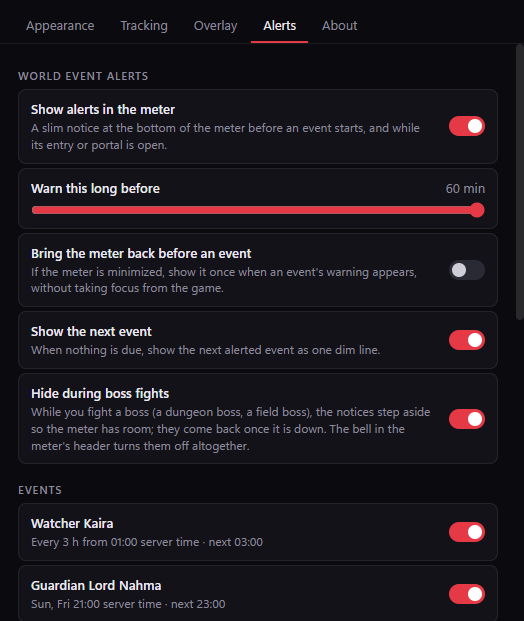
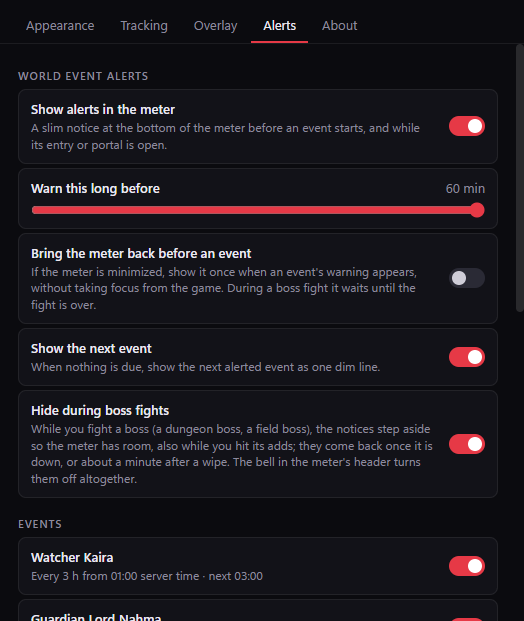
Restore the Windows SDK target, add the README demo GIF
The plain net10.0-windows retarget passed every test but the published
exe crashed on start: BlazorWebView draws the see-through overlay with
WebView2's composition control, which loads Microsoft.Windows.SDK.NET.
Back to net10.0-windows10.0.20348.0 with a comment saying why; the
guard is reversed so losing the projection, or its notice, fails a test.
The notices and SECURITY name the projection and leave the GPL question
to the player. The README's hero is now a looping GIF of the demo fight,
with the Alerts and background screenshots retaken from #24's build.

diff --git a/tests/ScarletMeter.Tests/ThirdPartyNoticesTests.cs b/tests/ScarletMeter.Tests/ThirdPartyNoticesTests.cs
@@ -11,8 +11,8 @@ namespace ScarletMeter.Tests;
 /// THIRD-PARTY-NOTICES.md lists exactly the NuGet packages that ship in the program (from the app's restore), with the
 /// licence each declares and the licence and notice files it ships, whose copies in licenses/packages match the
 /// package byte for byte (run scripts/Write-ThirdPartyNotices.ps1 after a package change); every SPDX licence named
-/// has its official text in licenses/; LICENSE is the plain GPLv3 byte for byte; the program bundles no proprietary
-/// Windows SDK projection; and NOTICE and the notices name what a GPLv3 release must. Paths come from the test assembly's location, never the working directory.
+/// has its official text in licenses/; LICENSE is the plain GPLv3 byte for byte; the program keeps the Windows SDK
+/// projection its overlay needs, and names it; and NOTICE and the notices name what a GPLv3 release must. Paths come from the test assembly's location, never the working directory.
 /// </summary>
 public sealed partial class ThirdPartyNoticesTests
 {
@@ -93,20 +93,26 @@ public sealed partial class ThirdPartyNoticesTests
         Assert.Equal(WpfNoticesSha256, Sha256WithLf(Path.Combine(licences, "dotnet-wpf", "THIRD-PARTY-NOTICES.TXT")));
     }
 
-    // A versioned Windows target framework (net10.0-windows10.0.x) bundles Microsoft's Windows SDK projection, which
-    // the meter does not use and whose proprietary licence is not the GPL's to cover: the app must not bring it in.
+    // BlazorWebView draws the see-through overlay with WebView2's composition control, which loads the Windows SDK
+    // projection (Microsoft.Windows.SDK.NET) at run time: a plain net10.0-windows build left it out and the published
+    // exe crashed on start. The app must keep a Windows 10 SDK target, and THIRD-PARTY-NOTICES.md must name the
+    // projection and its licence.
     [Fact]
-    public void TheProgramBundlesNoWindowsSdkProjection()
+    public void TheProgramKeepsTheWindowsSdkProjectionAndNamesIt()
     {
         using var assets = AppAssets();
-        foreach (var framework in assets.RootElement.GetProperty("project").GetProperty("frameworks").EnumerateObject())
+        var frameworks = assets.RootElement.GetProperty("project").GetProperty("frameworks").EnumerateObject().ToList();
+        Assert.NotEmpty(frameworks);
+        foreach (var framework in frameworks)
         {
-            Assert.DoesNotContain("windows10", framework.Name, StringComparison.OrdinalIgnoreCase);
-            if (framework.Value.TryGetProperty("frameworkReferences", out var references))
-                Assert.DoesNotContain(references.EnumerateObject(), r => r.Name.StartsWith("Microsoft.Windows.SDK.NET", StringComparison.OrdinalIgnoreCase));
-            if (framework.Value.TryGetProperty("downloadDependencies", out var downloads))
-                Assert.DoesNotContain(downloads.EnumerateArray(), d => d.GetProperty("name").GetString()!.StartsWith("Microsoft.Windows.SDK.NET", StringComparison.OrdinalIgnoreCase));
+            Assert.Contains("windows10.0.", framework.Name, StringComparison.OrdinalIgnoreCase);
+            Assert.True(framework.Value.TryGetProperty("frameworkReferences", out var references)
+                && references.EnumerateObject().Any(r => r.Name.StartsWith("Microsoft.Windows.SDK.NET.Ref", StringComparison.OrdinalIgnoreCase)),
+                $"{framework.Name} does not bring in the Windows SDK projection WebView2's composition control needs.");
         }
+        var notices = File.ReadAllText(Path.Combine(RepositoryRoot(), "THIRD-PARTY-NOTICES.md"));
+        Assert.Contains("Microsoft.Windows.SDK.NET", notices, StringComparison.Ordinal);
+        Assert.Contains("https://aka.ms/WinSDKLicenseURL", notices, StringComparison.Ordinal);
     }
 
     [Fact]

diff --git a/docs/WORKLOG.md b/docs/WORKLOG.md
@@ -18,9 +18,13 @@ Newest first. Each entry: what changed, why, actual checks, unresolved issues, n
 
 **Checks after the audit (SDK 10.0.402):** `scripts/Build.ps1` 405/405 (`ThirdPartyNoticesTests` now 4). Fail-first, each failing its test: a word changed mid-`LICENSE`, PacketDotNet's licence cell as MIT, its row dropped, a stale row, a notices cell emptied, a copied licence changed by one byte, the MPL text changed, and a stale file in `licenses/packages`. `Write-ThirdPartyNotices.ps1` rerun after a plain restore reproduces the table and copies exactly (59 packages, 8 files); after a win-x64 restore it gave the same 59. A scratch `Publish-Portable.ps1 -SkipTests` passed the extended `Test-PublishLayout.ps1`, with `licenses/runtime/` holding the NETCore, WindowsDesktop and AspNetCore packs' files and the manifest owning `licenses`. `Write-SourceArchive.ps1` gave a 5.4 MB zip of 514 entries, `upstream/` included, nothing outside its top folder. Not run: the release workflow (it runs on the tag), `Write-ThirdPartyNotices.ps1` under pwsh, and its missing-.nuspec failure.
 
-**Re-audit of those changes (deep, request changes), and what changed:** CI and Codex were clean on ea18c6d, and the artifact hand-off, pins, exit codes, token split, publish target and source zip were confirmed by reading the actions at their pinned commits and by runs in a clone. (1) The app targeted `net10.0-windows10.0.20348.0`, a versioned Windows target, which bundled Microsoft's Windows SDK projection (`Microsoft.Windows.SDK.NET.dll`, 25 MB, and `WinRT.Runtime.dll`) under a licence known only by URL, though nothing in the meter uses WinRT: the app and tests now target plain `net10.0-windows`, the projection is gone from the build, the table's target name follows, and `ThirdPartyNoticesTests.TheProgramBundlesNoWindowsSdkProjection` fails if a versioned target or the SDK pack comes back. The target was RATmeter's UI project's, carried over without asking what it brings. (2) WPF's third-party notices were linked, not shipped (the Windows Desktop runtime pack carries only its licence): `licenses/dotnet-wpf/THIRD-PARTY-NOTICES.TXT` from dotnet/wpf v10.0.13, checked by hash, required by the layout and release checks. (3) `MIT.txt`'s permission text was unguarded: hashed from "Permission is hereby granted" to the end, the same text as .NET's and K4os's copies. (4) The README promised no administrator rights without saying Npcap's installer needs one once: it says so. (5) SECURITY said the review came "before the repository was made public": "is made public". (6) The draft job used paths relative to the workspace: `$RUNNER_TEMP/release`. (7) `Write-SourceArchive.ps1` now refuses uncommitted changes to tracked files in either repository, checks the output folder first, and keeps the submodule's file modes. (8) The pin comments name the exact releases (checkout v7.0.1, setup-dotnet v6.0.0). (9) ARCHITECTURE's release line no longer reads as if the data folder held the licences. LESSONS records the projection.
+**Re-audit of those changes (deep, request changes), and what changed:** CI and Codex were clean on ea18c6d, and the artifact hand-off, pins, exit codes, token split, publish target and source zip were confirmed by reading the actions at their pinned commits and by runs in a clone. (1) The app targeted `net10.0-windows10.0.20348.0`, a versioned Windows target, which bundled Microsoft's Windows SDK projection (`Microsoft.Windows.SDK.NET.dll`, 25 MB, and `WinRT.Runtime.dll`) under a licence known only by URL, though nothing in the meter uses WinRT: the app and tests now target plain `net10.0-windows`, the projection is gone from the build, the table's target name follows, and `ThirdPartyNoticesTests.TheProgramBundlesNoWindowsSdkProjection` fails if a versioned target or the SDK pack comes back. The target was RATmeter's UI project's, carried over without asking what it brings. (2) WPF's third-party notices were linked, not shipped (the Windows Desktop runtime pack carries only its licence): `licenses/dotnet-wpf/THIRD-PARTY-NOTICES.TXT` from dotnet/wpf v10.0.13, checked by hash, required by the layout and release checks. (3) `MIT.txt`'s permission text was unguarded: hashed from "Permission is hereby granted" to the end, the same text as .NET's and K4os's copies. (4) The README promised no administrator rights without saying Npcap's installer needs one once: it says so. (5) SECURITY said the review came "before the repository was made public": "is made public". (6) The draft job used paths relative to the workspace: `$RUNNER_TEMP/release`. (7) `Write-SourceArchive.ps1` now refuses uncommitted changes to tracked files in either repository, checks the output folder first, and keeps the submodule's file modes. (8) The pin comments name the exact releases (checkout v7.0.1, setup-dotnet v6.0.0). (9) ARCHITECTURE's release line no longer reads as if the data folder held the licences. LESSONS records the projection. (1) was then reverted: see the next entry but one.
 
 **Checks after the re-audit (SDK 10.0.402):** `scripts/Build.ps1` with the retarget, 405/405 before the new test; no `WinRT.Runtime.dll` or `Microsoft.Windows.SDK.NET.dll` in the build output, and the restore names no Windows SDK pack; `Write-ThirdPartyNotices.ps1` changed only the table's target name. With the new test, `ThirdPartyNoticesTests`, `RazorMarkupTests` and `BuildInfoTests` 31/31. Fail-first, each failing its test: the MIT warranty text changed, WPF's notices changed, and the Windows SDK pack back in the restore. `Write-SourceArchive.ps1` refused this worktree's uncommitted changes and a missing output folder. Not run while Harry was in game: the retargeted meter in a window (WPF and WebView2 after the retarget), and a local portable publish (CI publishes and checks the layout on every push).
+
+**The retarget reverted (after Harry was out of game):** a scratch `Publish-Portable.ps1 -SkipTests` of the retargeted build passed the layout check (exe 143 MB, no projection in its bundle), but the published exe crashed on start with `FileNotFoundException: Microsoft.Windows.SDK.NET` from `WebView2CompositionControl_Loaded` (event log, .NET Runtime): BlazorWebView draws the see-through overlay with WebView2's composition control, which needs the projection. The re-audit's "nothing uses it" held for Scarlet's code, not its dependencies. Back to `net10.0-windows10.0.20348.0`, with a comment on the target saying why; the guard is reversed (`TheProgramKeepsTheWindowsSdkProjectionAndNamesIt` fails if the target loses its Windows 10 SDK version or the notices stop naming the projection and https://aka.ms/WinSDKLicenseURL); THIRD-PARTY-NOTICES names the projection again, with why it is there and that RATmeter's builds bundle it too; `MIT.txt` lists C#/WinRT again; SECURITY says the GPL system-library question is unsettled and publishing with it is Harry's decision (HANDOFF). LESSONS rewritten: the lesson is that only a launch of the published exe showed it. Checks: `scripts/Build.ps1` 406/406; the reversed guard failed with the projection's framework reference renamed in the restore and with the licence link removed from the notices; the republished portable exe (161 MB) ran `--demo` in a throwaway data directory: overlay with the boss card, four rows and their effects, Settings (About: "Scarlet Meter 0.1.0", the data folder), History (the saved demo fight) and a player's details window all rendered; exit code 0; no log warnings.
+
+**README images (after Harry was out of game, at Harry's request for a GIF):** the hero is now `docs/images/demo.gif`, 14 s of the demo's boss fight (Kill in, class effects, rows overtaking) at 30 fps, 400×260, 1.4 MB, looping: frames captured over DevTools from #24's build (DPS first, the one-line card) in a throwaway data directory, then encoded by a throwaway tool outside the repository (one 255-colour median-cut palette, see-through corners kept transparent, the translucent panel blended over a dark backdrop, each frame storing only its changed rectangle). Windows' own GIF decoder read all 426 frames, and replaying them matched the source frames at the start, middle and end (mean error 3 to 4 colour levels, no transparency mismatches). `settings-alerts.png` and `background-picture.png` are retaken from the same build (the new Alerts texts; a generated abstract picture at 50%); `overlay.png` is gone. No image has metadata chunks or comments, and every player in them is a demo player.
 
 **Next:** Codex and CI, merge (after #24, so the release has its overlay changes); tag v0.1.0; check the draft's zips (checksums, contents, the same search); make the repository public; publish the release; then, with Harry's go-ahead, protect `main` and tags.
 

diff --git a/docs/SECURITY.md b/docs/SECURITY.md
@@ -40,7 +40,7 @@ The schedule data's terms were confirmed for the public release (2026-10-25): ta
 Reviewed on 2026-10-25, before the repository is made public and v0.1.0 is published (WORKLOG.md):
 
 - **History.** Every file in every commit was searched for credentials (GitHub, OpenAI and AWS token forms, private keys, password and API-key assignments), the builder's home paths, account names and work address, and machine-specific SDK paths: none. No capture, database, log, settings or binary file was ever committed. Commits carry a dedicated GitHub address and the account's public name; the docs name the player by first name, as their author.
-- **Licences.** `LICENSE` is the plain GPLv3 text (so GitHub recognises it); Scarlet's notice and RATmeter's credit are in `NOTICE`; THIRD-PARTY-NOTICES.md credits RATmeter, the fork, .NET (with WPF), the schedule sources and every NuGet package that ships in the program (MIT, Apache-2.0, MPL-2.0 for PacketDotNet with its source location, Microsoft's BSD-style WebView2 licence, public-domain SQLite), all compatible with GPLv3. Binary copies must carry those licences' texts and notices, so the release zip has a `licenses` folder: the MIT text with each holder, the Apache-2.0 and MPL-2.0 texts, every licence and notice file the packages ship (copied byte for byte by `Write-ThirdPartyNotices.ps1`), WPF's third-party notices (pinned to v10.0.13 and checked by hash), and the bundled .NET runtime packs' own licence and third-party notices (copied at publish from the packs used). The app targets plain `net10.0-windows`: a versioned Windows target would bundle Microsoft's proprietary Windows SDK projection, which the meter does not use (the re-audit found it), and `ThirdPartyNoticesTests` fails if it comes back. `ThirdPartyNoticesTests` fails when the package table is not exactly the shipped packages, a licence cell differs from the package's declaration, a copy differs from its package's file, a named licence has no text, or `LICENSE` is not gnu.org's text byte for byte (SHA-256). The release zip also carries `LICENSE.txt`, `NOTICE.txt`, `THIRD-PARTY-NOTICES.md` and a player's `README.txt`. The complete source, RATmeter's submodule included, is attached to every release as `ScarletMeter-<version>-source.zip` (`Write-SourceArchive.ps1`), since GitHub's own source archives leave submodules out.
+- **Licences.** `LICENSE` is the plain GPLv3 text (so GitHub recognises it); Scarlet's notice and RATmeter's credit are in `NOTICE`; THIRD-PARTY-NOTICES.md credits RATmeter, the fork, .NET (with WPF), the Windows SDK projection, the schedule sources and every NuGet package that ships in the program (MIT, Apache-2.0, MPL-2.0 for PacketDotNet with its source location, Microsoft's BSD-style WebView2 licence, public-domain SQLite), all compatible with GPLv3. Binary copies must carry those licences' texts and notices, so the release zip has a `licenses` folder: the MIT text with each holder, the Apache-2.0 and MPL-2.0 texts, every licence and notice file the packages ship (copied byte for byte by `Write-ThirdPartyNotices.ps1`), WPF's third-party notices (pinned to v10.0.13 and checked by hash), and the bundled .NET runtime packs' own licence and third-party notices (copied at publish from the packs used). The exe also bundles Microsoft's Windows SDK projection (`Microsoft.Windows.SDK.NET`, with `WinRT.Runtime`, MIT), which WebView2's composition control needs to draw the see-through overlay (a build without it crashed on start); it is under the Windows SDK licence terms (https://aka.ms/WinSDKLicenseURL), not the GPL, and RATmeter's own builds bundle it the same way. Whether the GPL's system-library exception covers it is a legal question this review does not settle; publishing with it is the player's decision (HANDOFF). `ThirdPartyNoticesTests` fails when the package table is not exactly the shipped packages, a licence cell differs from the package's declaration, a copy differs from its package's file, a named licence has no text, or `LICENSE` is not gnu.org's text byte for byte (SHA-256). The release zip also carries `LICENSE.txt`, `NOTICE.txt`, `THIRD-PARTY-NOTICES.md` and a player's `README.txt`. The complete source, RATmeter's submodule included, is attached to every release as `ScarletMeter-<version>-source.zip` (`Write-SourceArchive.ps1`), since GitHub's own source archives leave submodules out.
 - **Game assets.** Class icons and game data are RATmeter's, shipped as RATmeter ships them; skill icons are fetched from NC's site at run time, not shipped. The notices say AION 2's names, art and data are NCSOFT's and that Scarlet is not affiliated.
 - **Build.** Releases are built on GitHub's runners by `.github/workflows/release.yml` from a version tag (tests, publish, zip checks, source zip, SHA-256) as a draft, so no developer's paths, account or data can be in them; a maintainer downloads the draft, checks it and publishes it. The build has no debug symbols or documentation files. The workflow keeps the write token away from third-party build code: the job that restores, builds and tests has a read-only token that git does not keep (`persist-credentials: false`), and only a second job, which runs no project code, may create the release. Actions are pinned to release commits (CI too), the tag name reaches scripts only through the environment, and a tag whose commit is not on `main` is refused.
 - **Once public** (not possible while private on the free plan): protect `main` and add a tag ruleset for `v*` so only the maintainer can push either, and require approval before workflows run for outside contributors' pull requests. These change the repository's settings, so the player decides (HANDOFF).

diff --git a/docs/LESSONS.md b/docs/LESSONS.md
@@ -71,10 +71,10 @@ Mistakes found in this repository's work, why they got through, and what now cat
 
 ## In the process
 
-**A versioned Windows target bundled a proprietary library nobody used** (re-audit on #23, fixed before any release).
-- What: the app targeted `net10.0-windows10.0.20348.0`, copied from RATmeter's UI project. A versioned Windows target brings in Microsoft's Windows SDK projection, so every build bundled `Microsoft.Windows.SDK.NET.dll` (25 MB) and `WinRT.Runtime.dll`, under a licence known only by a URL, inside a GPLv3 program, though nothing in the meter uses a WinRT API.
-- Why: the target framework was taken as a given from upstream, and the licence review listed what the NuGet restore names, not what the published exe actually bundles; the projection comes from the target framework, not from a package.
-- Guard: plain `net10.0-windows`, and `ThirdPartyNoticesTests.TheProgramBundlesNoWindowsSdkProjection` fails on a versioned Windows target or the SDK pack. For a licence review, list what the build output holds (framework packs, runtime packs, native libraries), not only the package graph.
+**A library "nobody used" was needed at run time, and only a launch showed it** (re-audit on #23, caught before merge).
+- What: the re-audit found the exe bundles Microsoft's Windows SDK projection (`Microsoft.Windows.SDK.NET.dll`, from the versioned `net10.0-windows10.0.20348.0` target) under a licence known only by a URL, said nothing in the meter uses it, and suggested plain `net10.0-windows`. That build passed all 405 tests and its publish passed the layout check, but the published exe crashed on start: BlazorWebView draws the see-through overlay with WebView2's composition control, which loads the projection. The retarget was reverted.
+- Why: "unused" was judged by searching our own code, not what our dependencies load; and no check before the visual one runs the published program, so a build that cannot start looked green. The first licence review had also listed only what the NuGet restore names, which is how the projection went unnoticed until the re-audit.
+- Guard: `ThirdPartyNoticesTests.TheProgramKeepsTheWindowsSdkProjectionAndNamesIt` fails if the app loses its Windows 10 SDK target or the notices stop naming the projection and its licence; the target framework carries a comment saying why. Smoke-run the published exe (not only the Debug build) after any change to the target framework, packages or publish settings, and for a licence review list what the build output holds, not only the package graph.
 
 **The first release named its licences but did not carry them** (deep audit on #23, fixed before any release).
 - What: the planned v0.1.0 zip listed each component's licence by name, but binary copies must carry the texts and notices themselves (WebView2's BSD-style licence says so in as many words; MIT and Apache-2.0 too); .NET's notices were linked on `main`, not the shipped version; and "the source is the tag" left RATmeter's half of the source in someone else's repository, since GitHub's source archives drop submodules. The release job also ran restores, builds and tests with a write token kept in git's config, took the tag name into a script's text, and accepted a tag on any commit.

diff --git a/THIRD-PARTY-NOTICES.md b/THIRD-PARTY-NOTICES.md
@@ -32,9 +32,12 @@ https://github.com/harrynguon/Scarlet-Meter with the `upstream/` submodule at th
   https://github.com/dotnet/wpf/blob/release/10.0/THIRD-PARTY-NOTICES.TXT. The ASP.NET Core Components and
   BlazorWebView packages ship their own notices (`licenses/packages/`; also
   https://github.com/dotnet/aspnetcore/blob/release/10.0/THIRD-PARTY-NOTICES.txt and
-  https://github.com/dotnet/maui/blob/main/THIRD-PARTY-NOTICES.TXT). The app targets plain `net10.0-windows`, so
-  the proprietary Windows SDK projection (`Microsoft.Windows.SDK.NET`, which a versioned Windows target would
-  bundle) is not in the program; `ThirdPartyNoticesTests` fails if it comes back.
+  https://github.com/dotnet/maui/blob/main/THIRD-PARTY-NOTICES.TXT).
+- **Windows SDK projection** (`Microsoft.Windows.SDK.NET` and `WinRT.Runtime`, bundled in `ScarletMeter.exe` from
+  the Microsoft.Windows.SDK.NET.Ref pack that the Windows 10 SDK target framework brings in, as in RATmeter's own
+  builds). BlazorWebView draws the see-through overlay with WebView2's composition control, which needs it at run
+  time. `Microsoft.Windows.SDK.NET`: Copyright (c) Microsoft Corporation, under the Windows SDK licence terms,
+  https://aka.ms/WinSDKLicenseURL. `WinRT.Runtime` is C#/WinRT, MIT (`licenses/MIT.txt`).
 
 ## Data
 
@@ -61,7 +64,7 @@ the app's restore; `ThirdPartyNoticesTests` fails when a shipped package is miss
 differs from what its package ships.
 
 <!-- packages:begin -->
-Target `net10.0-windows`, 59 packages.
+Target `net10.0-windows10.0.20348.0`, 59 packages.
 
 | Package | Version | Licence | Its own notices, in `licenses/packages/` | Project |
 | --- | --- | --- | --- | --- |

diff --git a/README.md b/README.md
@@ -7,7 +7,8 @@ It is built on [RATmeter](https://github.com/Kuroukihime/AIon2-Dps-Meter)'s prov
 overlay and extras: a boss card with a "Kill in" estimate, animated bar effects for every class, world-event
 alerts, and a background picture of your choice.
 
-<p align="center"><img src="docs/images/overlay.png" alt="The Scarlet Meter overlay in a boss fight (demo data)" width="400"/></p>
+<p align="center"><img src="docs/images/demo.gif" alt="Scarlet Meter in a boss fight (demo mode, made-up players): the boss card with its Kill in estimate, each class's animated bar effect, and rows gliding into place as players overtake" width="400"/></p>
+<p align="center"><sub>Demo mode, made-up players: <code>.\ScarletMeter.exe --demo</code></sub></p>
 
 > **Early release.** Its in-game checks are not finished, so numbers may be off. Reports are welcome in
 > [Issues](https://github.com/harrynguon/Scarlet-Meter/issues).
@@ -75,7 +76,7 @@ and adds it up per player and per fight.
 - **Class colours**, **relative bars** (against the top player), row size, and **hidden names** for streams and
   screenshots.
 
-<p align="center"><img src="docs/images/background-picture.png" alt="A background picture at 50% opacity (demo data, test picture)" width="400"/></p>
+<p align="center"><img src="docs/images/background-picture.png" alt="A background picture at 50% picture opacity (demo data, a generated test picture)" width="400"/></p>
 
 **After the fight**
 

diff --git a/docs/HANDOFF.md b/docs/HANDOFF.md
@@ -4,6 +4,7 @@ Repository: https://github.com/harrynguon/Scarlet-Meter (private until #23 merge
 
 ## Next: the public release (#23)
 
+- [ ] The player decides whether to publish with Microsoft's Windows SDK projection bundled (WebView2's composition control needs it for the see-through overlay; RATmeter's builds bundle it too; its licence is Microsoft's, and whether the GPL's system-library exception covers it is not settled: docs/SECURITY.md, "Public release").
 - [ ] Merge #23, tag `v0.1.0` on `main`, and check the draft: both zips' SHA-256, the program zip's `licenses` folder and files, the source zip's `upstream/`, and no account name, home path or e-mail in any file (docs/DEVELOPMENT.md, "Releases").
 - [ ] Make the repository public, then publish the draft; update docs/SECURITY.md ("Game terms") and this line with the date.
 - [ ] Once public, with the player's go-ahead (repository settings): protect `main`, add a tag ruleset for `v*`, and require approval before outside contributors' pull requests run workflows (docs/SECURITY.md, "Public release").
